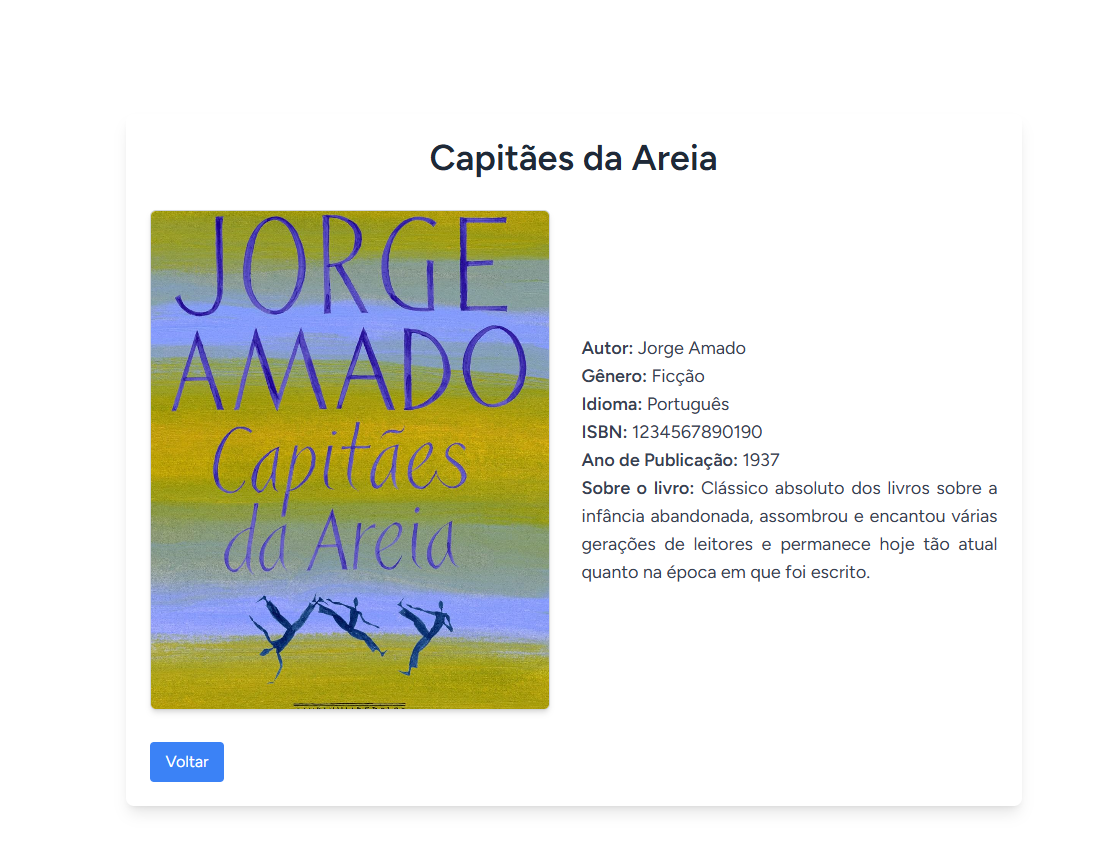
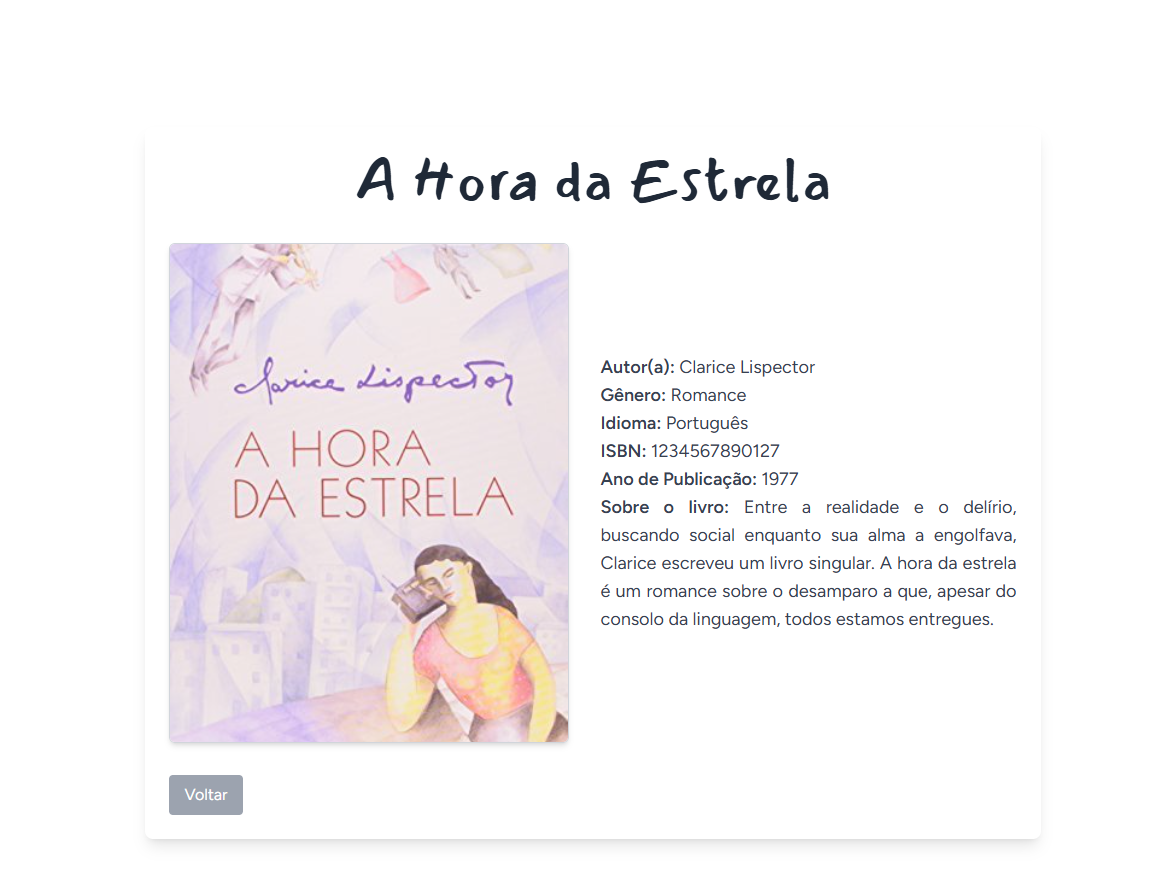
novas imagens, alteração de fontes e cores

Changed region(s): [[0.1215, 0.1561, 0.8811, 0.9364]]

diff --git a/resources/views/livros/create.blade.php b/resources/views/livros/create.blade.php
@@ -5,7 +5,7 @@
         @if (Auth::user()->role === 'admin')
             <div class="container mx-auto flex justify-center items-center min-h-screen">
                 <div class="w-full max-w-3xl bg-white p-8 rounded-lg shadow-lg">
-                    <h1 class="text-3xl font-bold text-center mb-6 text-gray-800">Adicionar Livro</h1>
+                    <h1 style="font-family: 'Mansalva'" class="text-5xl text-center mb-6 text-gray-800">Adicionar Livro</h1>
 
                     <!-- Formulário para Adicionar Livro -->
                     <form action="{{ route('livros.store') }}" method="POST" enctype="multipart/form-data">
@@ -13,7 +13,7 @@
 
                         <div class="mb-4">
                             <label for="titulo" class="block text-gray-700 font-bold">Título:</label>
-                            <input type="text" name="titulo" id="titulo" class="w-full border rounded p-3 focus:ring-2 focus:ring-blue-500" required>
+                            <input type="text" name="titulo" id="titulo" class="w-full border rounded p-3 focus:ring-2 focus:ring-gray-500" required>
                         </div>
 
                         <div class="mb-4">
@@ -23,7 +23,7 @@
                                     <input type="radio" name="autor_opcao" value="existente" checked>
                                     Selecionar um autor existente
                                 </label>
-                                <select name="autor_id" id="autor_id" class="w-full border rounded p-3 mt-2 focus:ring-2 focus:ring-blue-500">
+                                <select name="autor_id" id="autor_id" class="w-full border rounded p-3 mt-2 focus:ring-2 focus:ring-gray-500">
                                     <option value="" disabled selected>Selecione um autor</option>
                                     @foreach ($autores as $autor)
                                         <option value="{{ $autor->id }}">{{ $autor->nome }} {{ $autor->apelido }}</option>
@@ -36,46 +36,46 @@
                                     <input type="radio" name="autor_opcao" value="novo">
                                     Adicionar um novo autor
                                 </label>
-                                <input type="text" name="novo_autor_nome" placeholder="Nome do Autor" class="w-full border rounded p-3 mt-2 focus:ring-2 focus:ring-blue-500">
-                                <input type="text" name="novo_autor_apelido" placeholder="Apelido do Autor" class="w-full border rounded p-3 mt-2 focus:ring-2 focus:ring-blue-500">
-                                <input type="text" name="novo_autor_pais" placeholder="País do Autor" class="w-full border rounded p-3 mt-2 focus:ring-2 focus:ring-blue-500">
+                                <input type="text" name="novo_autor_nome" placeholder="Nome do Autor" class="w-full border rounded p-3 mt-2 focus:ring-2 focus:ring-gray-500">
+                                <input type="text" name="novo_autor_apelido" placeholder="Apelido do Autor" class="w-full border rounded p-3 mt-2 focus:ring-2 focus:ring-gray-500">
+                                <input type="text" name="novo_autor_pais" placeholder="País do Autor" class="w-full border rounded p-3 mt-2 focus:ring-2 focus:ring-gray-500">
                             </div>
                         </div>
 
                         <div class="mb-4">
                             <label for="genero" class="block text-gray-700 font-bold">Gênero:</label>
-                            <input type="text" name="genero" id="genero" class="w-full border rounded p-3 focus:ring-2 focus:ring-blue-500" required>
+                            <input type="text" name="genero" id="genero" class="w-full border rounded p-3 focus:ring-2 focus:ring-gray-500" required>
                         </div>
 
                         <div class="mb-4">
                             <label for="idioma" class="block text-gray-700 font-bold">Idioma:</label>
-                            <input type="text" name="idioma" id="idioma" class="w-full border rounded p-3 focus:ring-2 focus:ring-blue-500" required>
+                            <input type="text" name="idioma" id="idioma" class="w-full border rounded p-3 focus:ring-2 focus:ring-gray-500" required>
                         </div>
 
                         <div class="mb-4">
                             <label for="isbn" class="block text-gray-700 font-bold">ISBN:</label>
-                            <input type="text" name="isbn" id="isbn" class="w-full border rounded p-3 focus:ring-2 focus:ring-blue-500" maxlength="13" required>
+                            <input type="text" name="isbn" id="isbn" class="w-full border rounded p-3 focus:ring-2 focus:ring-gray-500" maxlength="13" required>
                         </div>
 
                         <div class="mb-4">
                             <label for="ano" class="block text-gray-700 font-bold">Ano de Publicação:</label>
-                            <input type="number" name="ano" id="ano" class="w-full border rounded p-3 focus:ring-2 focus:ring-blue-500" required>
+                            <input type="number" name="ano" id="ano" class="w-full border rounded p-3 focus:ring-2 focus:ring-gray-500" required>
                         </div>
 
                         <div class="mb-4">
                             <label for="observacoes" class="block text-gray-700 font-bold">Sobre o livro:</label>
-                            <textarea name="observacoes" id="observacoes" rows="3" class="w-full border rounded p-3 focus:ring-2 focus:ring-blue-500"></textarea>
+                            <textarea name="observacoes" id="observacoes" rows="3" class="w-full border rounded p-3 focus:ring-2 focus:ring-gray-500"></textarea>
                         </div>
 
                         <div class="mb-4">
                             <label for="capa" class="block text-gray-700 font-bold">Capa do Livro:</label>
-                            <input type="file" name="capa" id="capa" class="w-full border p-3 focus:ring-2 focus:ring-blue-500">
+                            <input type="file" name="capa" id="capa" class="w-full border p-3 focus:ring-2 focus:ring-gray-500">
                         </div>
 
                         <!-- Botão -->
                         <div class="flex justify-end">
-                            <button type="submit" class="bg-blue-500 text-white px-6 py-3 rounded-lg hover:bg-blue-700 transition">
-                                Salvar
+                            <button type="submit" class="bg-green-600 text-white px-6 py-3 rounded-lg hover:bg-green-700 transition">
+                                Adicionar livro
                             </button>
                         </div>
                     </form>

diff --git a/resources/views/livros/edit.blade.php b/resources/views/livros/edit.blade.php
@@ -5,7 +5,7 @@
 @if (Auth::user()->role === 'admin')
     <div class="container mx-auto flex justify-center items-center min-h-screen">
         <div class="w-full max-w-3xl bg-white p-8 rounded-lg shadow-lg">
-            <h1 class="text-3xl font-bold text-center mb-6 text-gray-800">Editar Livro</h1>
+            <h1 style="font-family: 'Mansalva'" class="text-5xl text-center mb-6 text-gray-800">Editar Livro</h1>
 
             <form action="{{ route('livros.update', $livro->id) }}" method="POST" enctype="multipart/form-data">
                 @csrf
@@ -14,43 +14,43 @@
                 <div class="mb-4">
                     <label for="titulo" class="block text-gray-700 font-bold">Título:</label>
                     <input type="text" name="titulo" id="titulo" value="{{ $livro->titulo }}" 
-                           class="w-full border rounded-lg p-3 focus:ring-2 focus:ring-blue-500" required>
+                           class="w-full border rounded-lg p-3 focus:ring-2 focus:ring-gray-500" required>
                 </div>
 
                 <div class="mb-4">
                     <label for="genero" class="block text-gray-700 font-bold">Gênero:</label>
                     <input type="text" name="genero" id="genero" value="{{ $livro->genero }}" 
-                           class="w-full border rounded-lg p-3 focus:ring-2 focus:ring-blue-500" required>
+                           class="w-full border rounded-lg p-3 focus:ring-2 focus:ring-gray-500" required>
                 </div>
 
                 <div class="mb-4">
                     <label for="idioma" class="block text-gray-700 font-bold">Idioma:</label>
                     <input type="text" name="idioma" id="idioma" value="{{ $livro->idioma }}" 
-                           class="w-full border rounded-lg p-3 focus:ring-2 focus:ring-blue-500" required>
+                           class="w-full border rounded-lg p-3 focus:ring-2 focus:ring-gray-500" required>
                 </div>
 
                 <div class="mb-4">
                     <label for="isbn" class="block text-gray-700 font-bold">ISBN:</label>
                     <input type="text" name="isbn" id="isbn" value="{{ $livro->isbn }}" 
-                           class="w-full border rounded-lg p-3 focus:ring-2 focus:ring-blue-500" required>
+                           class="w-full border rounded-lg p-3 focus:ring-2 focus:ring-gray-500" required>
                 </div>
 
                 <div class="mb-4">
                     <label for="ano" class="block text-gray-700 font-bold">Ano de Publicação:</label>
                     <input type="number" name="ano" id="ano" value="{{ $livro->ano }}" 
-                           class="w-full border rounded-lg p-3 focus:ring-2 focus:ring-blue-500" required>
+                           class="w-full border rounded-lg p-3 focus:ring-2 focus:ring-gray-500" required>
                 </div>
 
                 <div class="mb-4">
                     <label for="observacoes" class="block text-gray-700 font-bold">Observações:</label>
                     <textarea name="observacoes" id="observacoes" rows="3" 
-                              class="w-full border rounded-lg p-3 focus:ring-2 focus:ring-blue-500">{{ $livro->observacoes }}</textarea>
+                              class="w-full border rounded-lg p-3 focus:ring-2 focus:ring-gray-500">{{ $livro->observacoes }}</textarea>
                 </div>
 
                 <div class="mb-4">
                     <label for="autor_id" class="block text-gray-700 font-bold">Autor:</label>
                     <select name="autor_id" id="autor_id" 
-                            class="w-full border rounded-lg p-3 focus:ring-2 focus:ring-blue-500" required>
+                            class="w-full border rounded-lg p-3 focus:ring-2 focus:ring-gray-500" required>
                         @foreach ($autores as $autor)
                             <option value="{{ $autor->id }}" {{ $livro->autor_id == $autor->id ? 'selected' : '' }}>
                                 {{ $autor->nome }} {{ $autor->apelido }}
@@ -62,17 +62,17 @@
                 <div class="mb-4">
                     <label for="capa" class="block text-gray-700 font-bold">Capa do Livro (opcional):</label>
                     <input type="file" name="capa" id="capa" 
-                           class="w-full border rounded-lg p-3 focus:ring-2 focus:ring-blue-500">
+                           class="w-full border rounded-lg p-3 focus:ring-2 focus:ring-gray-500">
                 </div>
 
                 <!-- Botões -->
                 <div class="flex justify-between mt-6">
                     <a href="{{ route('livros.index') }}" 
-                       class="bg-gray-500 text-white px-6 py-3 rounded-lg hover:bg-gray-700 transition">
+                       class="bg-gray-400 text-white px-6 py-3 rounded-lg hover:bg-gray-500 transition">
                         Voltar
                     </a>
                     <button type="submit" 
-                            class="bg-blue-600 text-white px-6 py-3 rounded-lg hover:bg-blue-700 transition">
+                            class="bg-green-600 text-white px-6 py-3 rounded-lg hover:bg-green-700 transition">
                         Salvar Alterações
                     </button>
                 </div>

diff --git a/resources/views/livros/index.blade.php b/resources/views/livros/index.blade.php
@@ -4,21 +4,20 @@
 
     <div class="container mx-auto p-6">
 
-        <!-- Pesquisa e Filtro no Canto Direito -->
         <div class="flex justify-between items-center mb-6">
-            <div><h1 class="text-4xl font-bold text-center text-gray-800">Estante</h1></div> <!-- Espaço vazio para alinhar o formulário à direita -->
+            <div><h1 style="font-family: 'Mansalva'" class="text-5xl text-center text-gray-700">Biblioteca da Amanda</h1></div> 
             
-            <div class="flex gap-4">
+            <div class="flex gap-4 text-s">
                 <!-- Formulário de Pesquisa -->
                 <form action="{{ route('livros.index') }}" method="GET" class="flex gap-4">
                     <input type="text" name="titulo" placeholder="Pesquisar por título" value="{{ request('titulo') }}"
-                           class="border border-gray-300 rounded-lg p-3 w-48 focus:ring-2 focus:ring-blue-500">
+                           class="border border-gray-300 rounded-lg p-3 w-48 focus:ring-2 focus:ring-gray-400">
                     <input type="text" name="autor" placeholder="Pesquisar por autor" value="{{ request('autor') }}"
-                           class="border border-gray-300 rounded-lg p-3 w-48 focus:ring-2 focus:ring-blue-500">
+                           class="border border-gray-300 rounded-lg p-3 w-48 focus:ring-2 focus:ring-gray-400">
                     <input type="text" name="genero" placeholder="Pesquisar por gênero" value="{{ request('genero') }}"
-                           class="border border-gray-300 rounded-lg p-3 w-48 focus:ring-2 focus:ring-blue-500">
+                           class="border border-gray-300 rounded-lg p-3 w-48 focus:ring-2 focus:ring-gray-400">
                     <button type="submit"
-                            class="bg-blue-600 text-white px-6 py-3 rounded-lg hover:bg-blue-700 transition">
+                            class="bg-gray-400 text-white px-6 py-3 rounded-lg hover:bg-gray-500 transition">
                         Pesquisar
                     </button>
                 </form>
@@ -37,10 +36,9 @@
             </div>
         </div>
 
-        <!-- Tabela para exibir os livros -->
         <div class="overflow-x-auto">
             <table class="min-w-full bg-white rounded-lg shadow-md">
-                <thead class="bg-gray-700 text-white">
+                <thead class="bg-gray-400 text-white">
                     <tr>
                         <th class="px-6 py-3 text-left text-lg font-semibold uppercase">Título</th>
                         <th class="px-6 py-3 text-left text-lg font-semibold uppercase">Autor</th>
@@ -65,13 +63,13 @@
                             <td class="px-6 py-4 text-gray-700">{{ $livro->idioma }}</td>
                             <td class="px-6 py-4">
                                 <a href="{{ route('livros.show', $livro->id) }}"
-                                   class="text-blue-600 hover:text-blue-800 font-medium">
+                                   class="text-gray-400 hover:text-gray-900 font-medium">
                                     Ver mais
                                 </a>
                             </td>
                             <td class="px-6 py-4">
                                 <a href="{{ route('livros.edit', $livro->id) }}"
-                                   class="text-blue-600 hover:text-blue-800 font-medium">
+                                   class="text-gray-400 hover:text-gray-900 font-medium">
                                     Editar
                                 </a>
                             </td>

diff --git a/resources/views/livros/show.blade.php b/resources/views/livros/show.blade.php
@@ -5,7 +5,7 @@
     <div class="container mx-auto p-6 flex justify-center items-center min-h-screen">
         <div class="w-full max-w-4xl bg-white p-6 rounded-lg shadow-lg">
             <!-- Título Centralizado -->
-            <h1 class="text-4xl font-bold text-center mb-8 text-gray-800">{{ $livro->titulo }}</h1>
+            <h1 style="font-family: 'Mansalva'" class="text-center mb-8 text-gray-800 text-6xl">{{ $livro->titulo }}</h1>
 
             <!-- Conteúdo Dividido em Colunas -->
             <div class="flex flex-col md:flex-row items-center">
@@ -26,7 +26,7 @@
 
                 <!-- Informações do Livro -->
                 <div class="ml-0 md:ml-8 mt-6 md:mt-0 flex-grow text-gray-700 text-center">
-                    <p class="text-lg text-justify"><strong>Autor:</strong> 
+                    <p class="text-lg text-justify"><strong>Autor(a):</strong> 
                         @if ($livro->autor)
                             {{ $livro->autor->nome }} {{ $livro->autor->apelido }}
                         @else
@@ -45,7 +45,7 @@
 
             <!-- Botões -->
             <div class="flex justify-between mt-8">
-                <a href="{{ route('livros.index') }}" class="bg-blue-500 text-white px-4 py-2 rounded hover:bg-blue-700">
+                <a href="{{ route('livros.index') }}" class="bg-gray-400 text-white px-4 py-2 rounded hover:bg-gray-500">
                     Voltar
                 </a>
                 @auth

diff --git a/resources/views/layouts/app.blade.php b/resources/views/layouts/app.blade.php
@@ -10,6 +10,9 @@
         <!-- Fonts -->
         <link rel="preconnect" href="https://fonts.bunny.net">
         <link href="https://fonts.bunny.net/css?family=figtree:400,500,600&display=swap" rel="stylesheet" />
+        <link rel="preconnect" href="https://fonts.googleapis.com">
+        <link rel="preconnect" href="https://fonts.gstatic.com" crossorigin>
+        <link href="https://fonts.googleapis.com/css2?family=Mansalva&family=Poppins:ital,wght@0,100;0,200;0,300;0,400;0,500;0,600;0,700;0,800;0,900;1,100;1,200;1,300;1,400;1,500;1,600;1,700;1,800;1,900&display=swap" rel="stylesheet">
 
         <!-- Scripts -->
         @vite(['resources/css/app.css', 'resources/js/app.js'])
